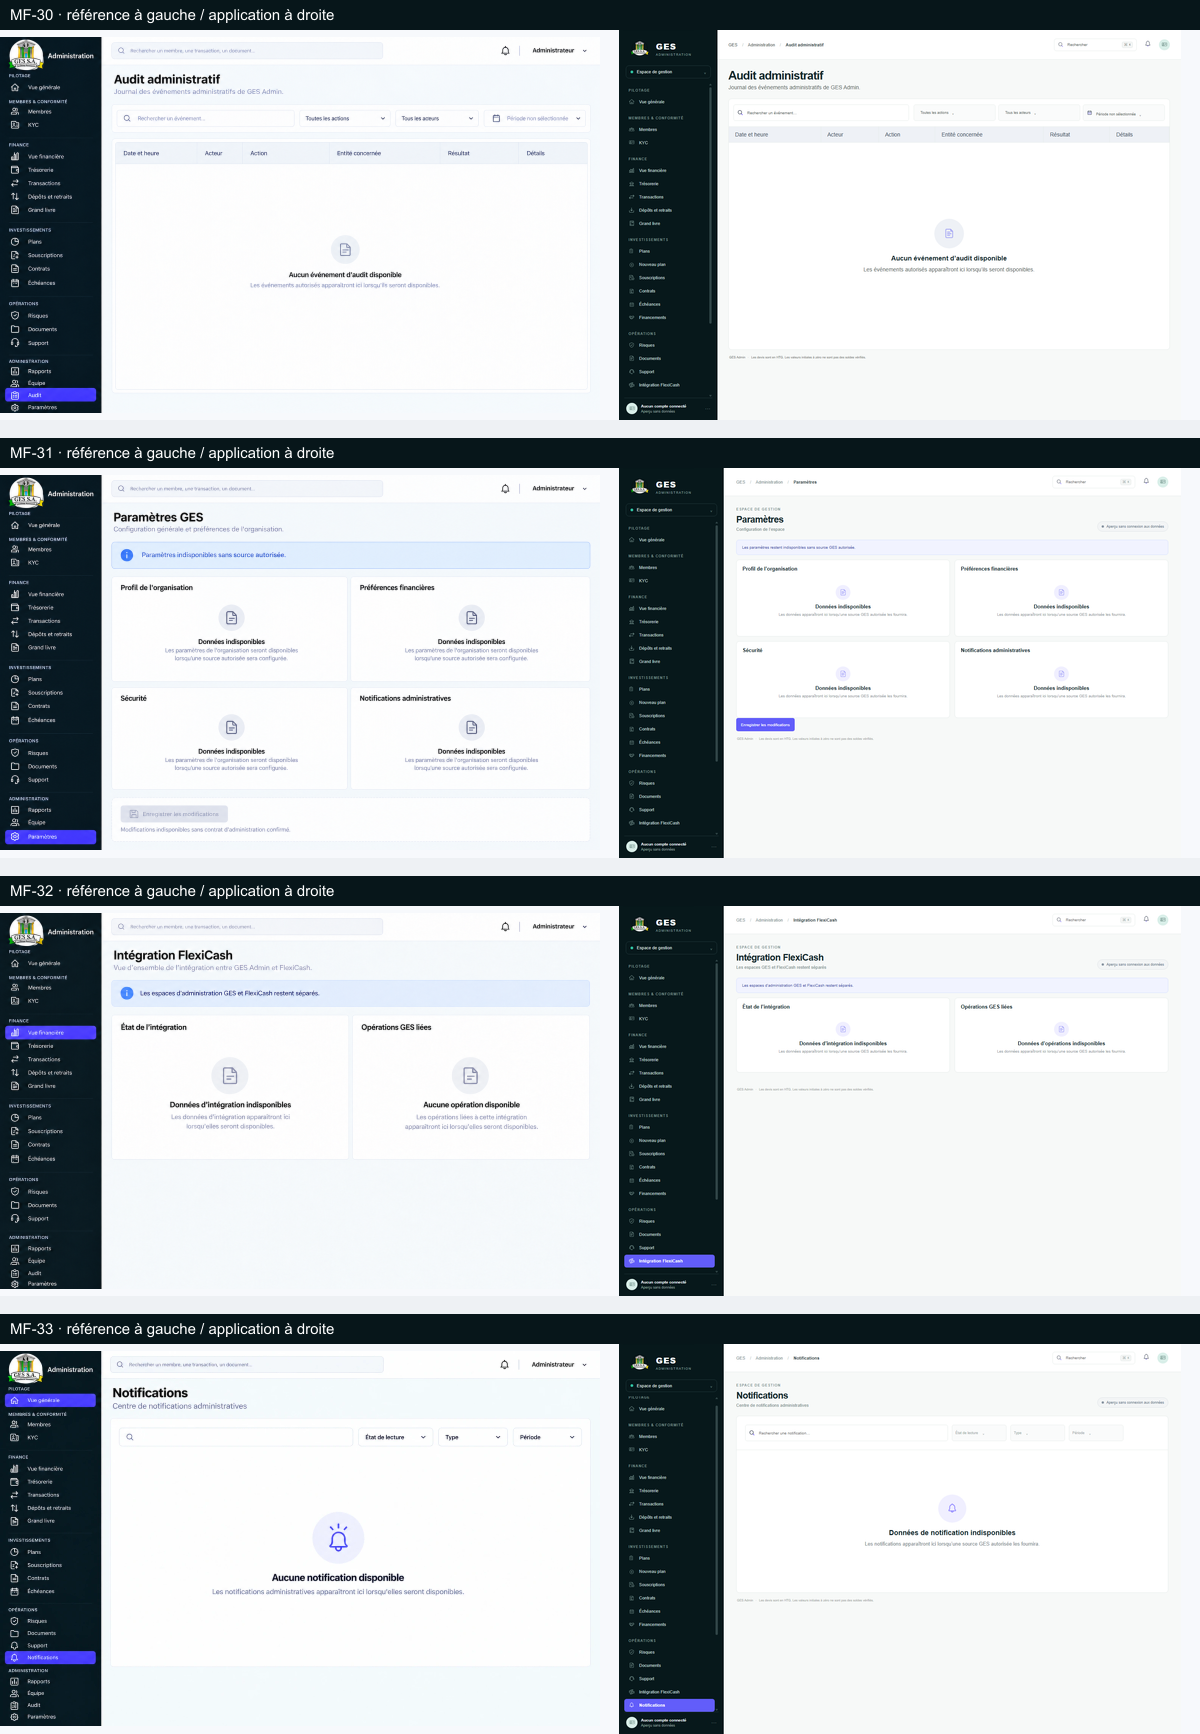
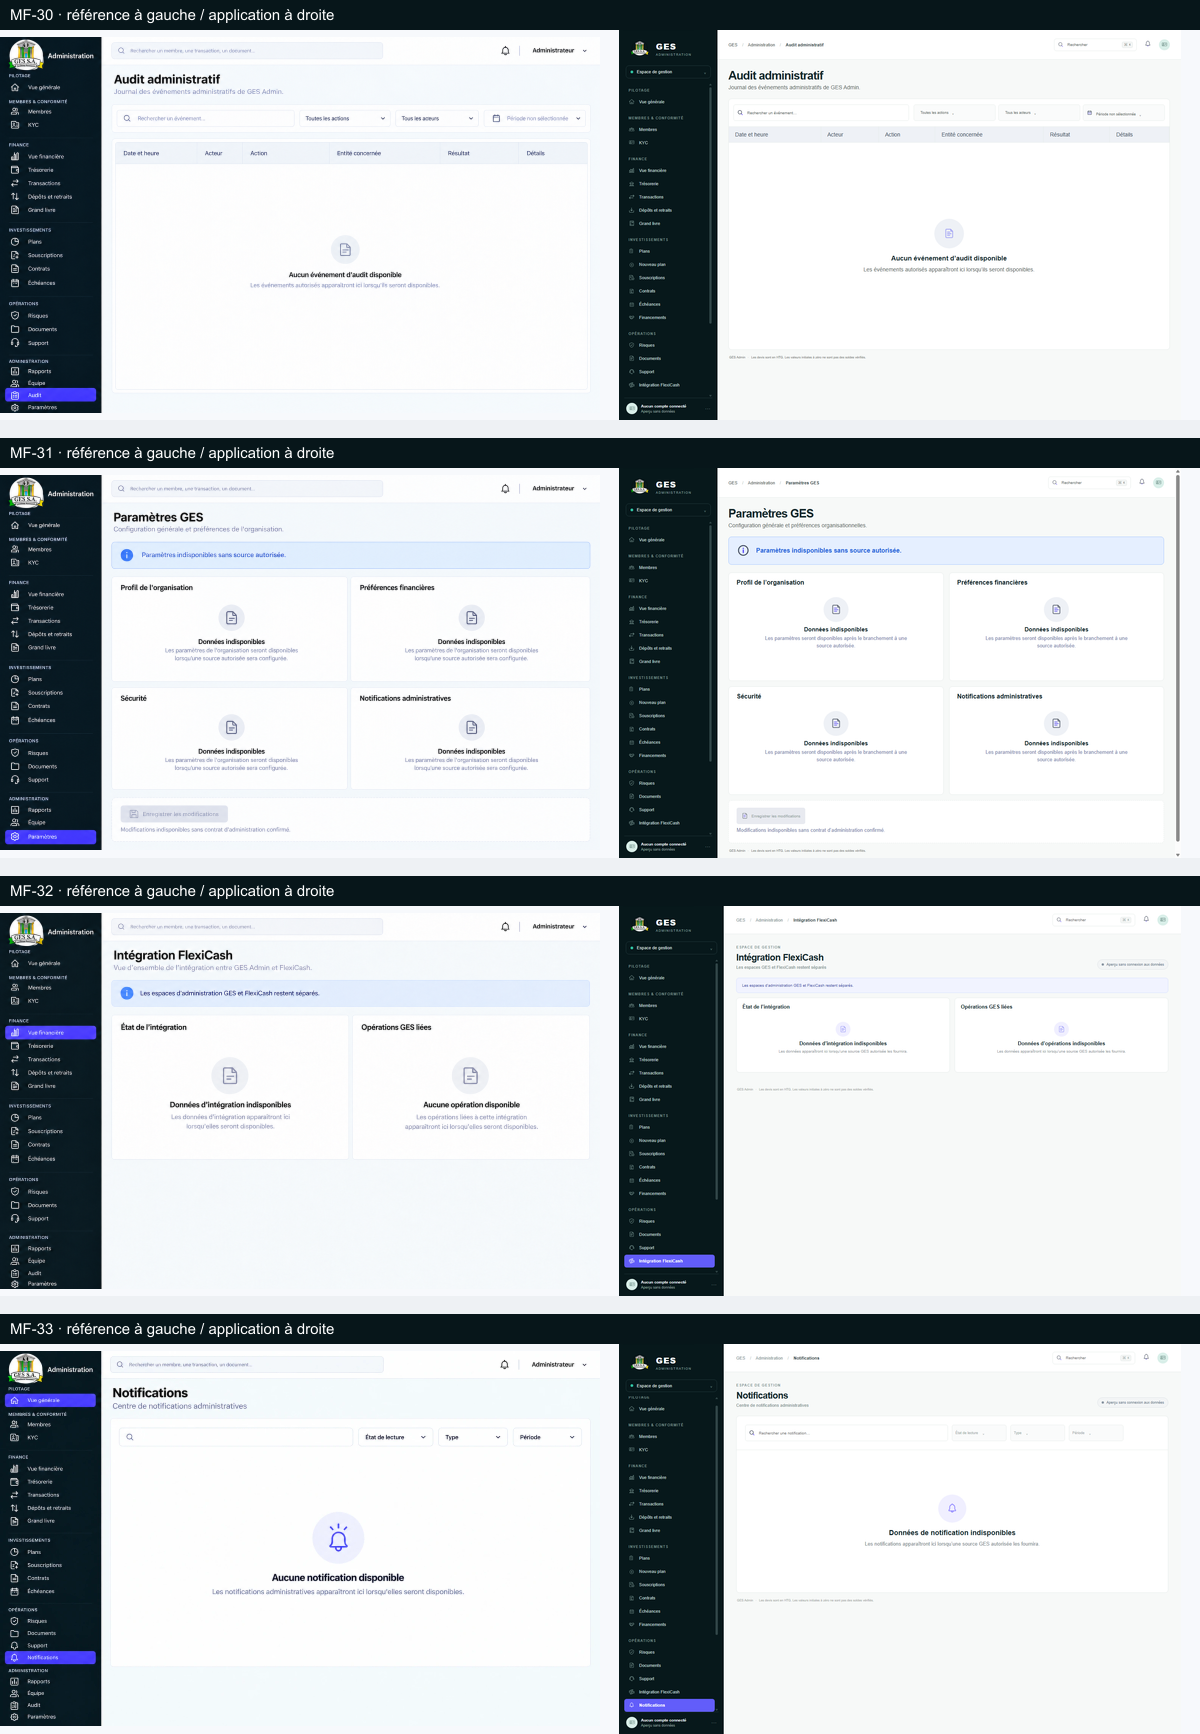
Align settings workspace with MF-31

Changed region(s): [[0.5858, 0.2803, 0.7708, 0.4983], [0.8017, 0.3114, 0.925, 0.436], [0.9558, 0.2803, 0.9867, 0.4671]]

diff --git a/components/admin-shell.tsx b/components/admin-shell.tsx
@@ -26,7 +26,7 @@ const pages: Record<string, { title: string; subtitle: string }> = {
   "vue-financiere": { title: "Vue financière générale", subtitle: "Aperçu de la position financière de GES Admin en HTG et USD." }, tresorerie: { title: "Trésorerie", subtitle: "Positions de trésorerie" }, transactions: { title: "Transactions", subtitle: "Consultez et gérez l’ensemble des transactions." },
   "depots-retraits": { title: "Dépôts et retraits", subtitle: "Suivi des mouvements entrants et sortants" }, "grand-livre": { title: "Grand livre et rapprochement", subtitle: "Consultation du grand livre comptable et rapprochement des soldes." }, plans: { title: "Catalogue des plans d’investissement", subtitle: "Vue d’ensemble des plans d’investissement autorisés sur GES Admin." },
   souscriptions: { title: "Souscriptions", subtitle: "Vue d’ensemble des souscriptions effectuées sur GES Admin." }, contrats: { title: "Contrats d’investissement", subtitle: "Liste des contrats d’investissement enregistrés dans GES Admin." }, echeances: { title: "Échéances et distributions", subtitle: "Suivi des échéances et des distributions de capital et d’intérêts." }, financements: { title: "Financements GES", subtitle: "Gestion des dossiers de financement du GES Admin." }, "plans/nouveau": { title: "Nouveau plan d’investissement", subtitle: "Créer un nouveau plan d’investissement (brouillon)." },
-  risques: { title: "Risques et alertes", subtitle: "Surveillance des risques et des alertes de GES Admin." }, documents: { title: "Documents et notifications", subtitle: "Consultez les documents et les notifications de GES Admin." }, support: { title: "Assistance et tickets", subtitle: "Liste des demandes d’assistance et de support de GES Admin." }, rapports: { title: "Rapports et analyses", subtitle: "Analysez l’activité de GES Admin grâce à des rapports et des visualisations." }, equipe: { title: "Équipe et administrateurs", subtitle: "Gestion des administrateurs et de leurs permissions dans GES Admin." }, audit: { title: "Audit administratif", subtitle: "Journal des événements administratifs de GES Admin." }, parametres: { title: "Paramètres", subtitle: "Configuration de l’espace" }, notifications: { title: "Notifications", subtitle: "Centre de notifications administratives" }, "roles-permissions": { title: "Rôles et permissions", subtitle: "Gestion des rôles et des permissions dans GES Admin." }, "integrations-flexicash": { title: "Intégration FlexiCash", subtitle: "Les espaces GES et FlexiCash restent séparés" },
+  risques: { title: "Risques et alertes", subtitle: "Surveillance des risques et des alertes de GES Admin." }, documents: { title: "Documents et notifications", subtitle: "Consultez les documents et les notifications de GES Admin." }, support: { title: "Assistance et tickets", subtitle: "Liste des demandes d’assistance et de support de GES Admin." }, rapports: { title: "Rapports et analyses", subtitle: "Analysez l’activité de GES Admin grâce à des rapports et des visualisations." }, equipe: { title: "Équipe et administrateurs", subtitle: "Gestion des administrateurs et de leurs permissions dans GES Admin." }, audit: { title: "Audit administratif", subtitle: "Journal des événements administratifs de GES Admin." }, parametres: { title: "Paramètres GES", subtitle: "Configuration générale et préférences organisationnelles." }, notifications: { title: "Notifications", subtitle: "Centre de notifications administratives" }, "roles-permissions": { title: "Rôles et permissions", subtitle: "Gestion des rôles et des permissions dans GES Admin." }, "integrations-flexicash": { title: "Intégration FlexiCash", subtitle: "Les espaces GES et FlexiCash restent séparés" },
 };
 
 const detailPages: Record<string, { title: string; subtitle: string }> = {
@@ -148,7 +148,7 @@ export function AdminShell({ section }: { section: string }) {
     </aside>
     {menuOpen && <button className="drawer-backdrop visible" type="button" aria-label="Fermer le menu" tabIndex={-1} onClick={closeMenu}/>}
     <main className="main-area" id="main-content" tabIndex={-1} inert={menuOpen}><header className="topbar"><button ref={menuButtonRef} className="mobile-menu-toggle" onClick={() => menuOpen ? closeMenu() : setMenuOpen(true)} aria-label={menuOpen ? "Fermer le menu" : "Ouvrir le menu"} aria-expanded={menuOpen} aria-controls="primary-navigation">{menuOpen ? <Image src="/assets/icons/close.webp" alt="" width={19} height={19}/> : <span className="menu-bars" aria-hidden="true"/>}</button><div className="breadcrumb">GES <span>/</span> Administration <span>/</span> <b>{page.title}</b></div><div className="top-actions"><label className="search"><Image src="/assets/icons/search.webp" alt="" width={15} height={15}/><input placeholder="Rechercher" aria-label="Rechercher" value={searchQuery} onChange={(event) => setSearchQuery(event.target.value)}/><kbd>⌘ K</kbd></label><Link href="/admin/notifications" className="bell" aria-label="Notifications"><Image src="/assets/icons/notification.webp" alt="" width={19} height={19}/></Link><div className="top-avatar"><Image src="/assets/icons/identity.webp" alt="" width={16} height={16}/></div></div></header>
-      <div className={`content ${key === "plans/nouveau" ? "plan-content" : ""}`}>{key === "souscriptions/dossier" && <Link className="detail-back" href="/admin/souscriptions">← Retour aux souscriptions</Link>}{key === "contrats/dossier" && <Link className="detail-back" href="/admin/contrats">← Retour aux contrats</Link>}{key === "risques/incident" && <Link className="detail-back" href="/admin/risques">← Retour aux alertes</Link>}{key === "support/conversation" && <Link className="detail-back" href="/admin/support">← Retour aux tickets</Link>}<div className="page-heading"><div>{key !== "transactions" && key !== "souscriptions/dossier" && key !== "contrats/dossier" && key !== "risques/incident" && key !== "support/conversation" && key !== "documents" && key !== "rapports" && key !== "equipe" && key !== "roles-permissions" && key !== "audit" && <div className="eyebrow">ESPACE DE GESTION</div>}<h1>{page.title}</h1>{page.subtitle && <p>{page.subtitle}</p>}</div><div className="heading-actions">{key === "rapports" && <div className="reports-page-filters"><button className="filter-button" disabled>Tous les rapports <span>⌄</span></button><button className="filter-button" disabled><Image src="/assets/icons/calendar.webp" alt="" width={16} height={16}/> Période non sélectionnée <span>⌄</span></button></div>}{key !== "souscriptions/dossier" && key !== "contrats/dossier" && key !== "risques/incident" && key !== "support/conversation" && key !== "documents" && key !== "rapports" && key !== "equipe" && key !== "roles-permissions" && key !== "audit" && <span className="status-pill preview-pill"><i/> Aperçu sans connexion aux données</span>}</div></div>
+      <div className={`content ${key === "plans/nouveau" ? "plan-content" : ""}`}>{key === "souscriptions/dossier" && <Link className="detail-back" href="/admin/souscriptions">← Retour aux souscriptions</Link>}{key === "contrats/dossier" && <Link className="detail-back" href="/admin/contrats">← Retour aux contrats</Link>}{key === "risques/incident" && <Link className="detail-back" href="/admin/risques">← Retour aux alertes</Link>}{key === "support/conversation" && <Link className="detail-back" href="/admin/support">← Retour aux tickets</Link>}<div className="page-heading"><div>{key !== "transactions" && key !== "souscriptions/dossier" && key !== "contrats/dossier" && key !== "risques/incident" && key !== "support/conversation" && key !== "documents" && key !== "rapports" && key !== "equipe" && key !== "roles-permissions" && key !== "audit" && key !== "parametres" && <div className="eyebrow">ESPACE DE GESTION</div>}<h1>{page.title}</h1>{page.subtitle && <p>{page.subtitle}</p>}</div><div className="heading-actions">{key === "rapports" && <div className="reports-page-filters"><button className="filter-button" disabled>Tous les rapports <span>⌄</span></button><button className="filter-button" disabled><Image src="/assets/icons/calendar.webp" alt="" width={16} height={16}/> Période non sélectionnée <span>⌄</span></button></div>}{key !== "souscriptions/dossier" && key !== "contrats/dossier" && key !== "risques/incident" && key !== "support/conversation" && key !== "documents" && key !== "rapports" && key !== "equipe" && key !== "roles-permissions" && key !== "audit" && key !== "parametres" && <span className="status-pill preview-pill"><i/> Aperçu sans connexion aux données</span>}</div></div>
       {key === "notifications" ? <NotificationsWorkspace query={searchQuery} onQueryChange={setSearchQuery}/> : key === "plans/nouveau" ? <><Link href="/admin/plans" className="plan-back">← Retour aux plans</Link><PlanForm/></> : overview ? <>{financial && <div className="module-notice">Valeurs initiales — les montants affichés sont à confirmer et ne constituent pas des soldes vérifiés.</div>}<div className={`metric-grid ${financial ? "financial-metrics" : ""}`}>{metrics.map(([label,value,caption])=><MetricCard key={label} label={label} value={value} caption={caption}/>)}</div>
       {financial && <UsdUnavailable/>}
       <div className={`overview-grid ${financial ? "financial-overview-grid" : "command-overview-grid"}`}><section className="panel"><div className="panel-head"><div><h2>{financial ? "Tendance de trésorerie" : "Tendance financière"}</h2></div>{financial && <button className="select-button" disabled title="Les données sont indisponibles">Période⌄</button>}</div><div className="chart-empty"><div className="chart-lines"><span/><span/><span/><span/></div><div className="chart-message">Aucune donnée disponible</div></div></section><section className="panel breakdown"><div className="panel-head"><div><h2>{financial ? "Obligations à venir" : "Répartition des investissements"}</h2></div>{financial && <button className="dots" disabled aria-label="Options indisponibles">···</button>}</div>{financial ? <div className="donut-wrap"><p>Aucune donnée disponible</p></div> : <div className="donut-wrap"><div className="donut"><div/></div><p>Aucune donnée disponible</p></div>}</section></div>

diff --git a/components/module-workspace.tsx b/components/module-workspace.tsx
@@ -81,11 +81,10 @@ if (sectionKey === "rapports") return <>
     <section className="panel module-subpanel reports-analysis-panel"><h2>Vue analytique</h2><div className="reports-empty-state"><div className="reports-empty-icon"><Image src="/assets/icons/analytics.webp" alt="" width={30} height={30}/></div><strong>Aucune donnée de rapport disponible</strong><p>Les analyses apparaîtront ici lorsqu’une source autorisée sera disponible.</p></div></section>
     <section className="panel module-subpanel reports-list-panel"><h2>Rapports disponibles</h2><div className="reports-empty-state"><div className="reports-empty-icon"><Image src="/assets/icons/document.webp" alt="" width={30} height={30}/></div><strong>Aucun rapport disponible</strong><p>Les rapports apparaîtront ici lorsqu’une source autorisée sera disponible.</p></div></section>
   </>;
-  if (sectionKey === "parametres") return <><div className="module-notice">Les paramètres restent indisponibles sans source GES autorisée.</div><div className="module-settings-grid">{["Profil de l’organisation", "Préférences financières", "Sécurité", "Notifications administratives"].map((title) => <section className="panel module-subpanel" key={title}><h2>{title}</h2><EmptyState title="Données indisponibles" searching={false}/></section>)}</div><button className="primary-button" disabled>Enregistrer les modifications</button></>;
-  if (sectionKey === "roles-permissions") return <>
-    <div className="role-permission-tabs" role="tablist" aria-label="Gestion des rôles et permissions"><button type="button" role="tab" aria-selected={activeTab === 0} className={activeTab === 0 ? "selected" : ""} onClick={() => { setActiveTab(0); document.getElementById("role-catalog")?.scrollIntoView({ behavior: "smooth", block: "start" }); }}>Rôles</button><button type="button" role="tab" aria-selected={activeTab === 1} className={activeTab === 1 ? "selected" : ""} onClick={() => { setActiveTab(1); document.getElementById("permission-matrix")?.scrollIntoView({ behavior: "smooth", block: "start" }); }}>Permissions</button></div>
-    <section id="role-catalog" className="panel module-subpanel role-list-panel"><h2>Rôles</h2><div className="table-wrap"><table><thead><tr>{["Rôle", "Description", "Administrateurs", "Statut"].map((label) => <th key={label}>{label}</th>)}</tr></thead><tbody><tr><td colSpan={4}><div className="role-permission-empty"><div className="role-permission-empty-icon"><Image src="/assets/icons/document.webp" alt="" width={30} height={30}/></div><strong>Aucun rôle disponible</strong><p>Les rôles apparaîtront ici lorsqu’ils seront disponibles.</p></div></td></tr></tbody></table></div></section>
-    <section id="permission-matrix" className="panel module-subpanel permission-matrix-panel"><h2>Matrice des permissions</h2><div className="role-permission-empty"><div className="permission-grid-icon" aria-hidden="true"><i/><i/><i/><i/></div><strong>Aucune permission disponible</strong><p>Les permissions apparaîtront ici lorsqu’elles seront disponibles.</p></div><div className="module-notice subtle"><Image src="/assets/icons/info.webp" alt="" width={18} height={18}/>Les permissions effectives sont vérifiées par le serveur.</div></section>
+  if (sectionKey === "parametres") return <>
+    <div className="settings-unavailable-notice"><Image src="/assets/icons/info.webp" alt="" width={28} height={28}/><strong>Paramètres indisponibles sans source autorisée.</strong></div>
+    <div className="module-settings-grid settings-card-grid">{["Profil de l’organisation", "Préférences financières", "Sécurité", "Notifications administratives"].map((title) => <section className="panel module-subpanel settings-card" key={title}><h2>{title}</h2><div className="settings-empty"><div className="settings-empty-icon"><Image src="/assets/icons/document.webp" alt="" width={28} height={28}/></div><strong>Données indisponibles</strong><p>Les paramètres seront disponibles après le branchement à une source autorisée.</p></div></section>)}</div>
+    <section className="panel settings-save-panel"><button className="primary-button" disabled><Image src="/assets/icons/document.webp" alt="" width={18} height={18}/>Enregistrer les modifications</button><p>Modifications indisponibles sans contrat d’administration confirmé.</p></section>
   </>;
   if (sectionKey === "integrations-flexicash") return <><div className="module-notice">Les espaces d’administration GES et FlexiCash restent séparés.</div><div className="module-two-panels"><section className="panel module-subpanel"><h2>État de l’intégration</h2><EmptyState title="Données d’intégration indisponibles" searching={false}/></section><section className="panel module-subpanel"><h2>Opérations GES liées</h2><EmptyState title="Données d’opérations indisponibles" searching={false}/></section></div></>;
   if (!page) return <GenericTable sectionKey={sectionKey} page={{ description: "Données GES disponibles.", filters: ["Filtres", "Période"], columns: ["RÉFÉRENCE", "DESCRIPTION", "DATE", "STATUT", "MONTANT (HTG)"], empty: "Aucune donnée disponible" }} query={query} onQueryChange={onQueryChange} activeTab={activeTab} setActiveTab={setActiveTab}/>;

diff --git a/app/globals.css b/app/globals.css
@@ -83,3 +83,5 @@ a:focus-visible,button:focus-visible,input:focus-visible,select:focus-visible,te
 @media(max-width:700px){.role-list-panel .role-permission-empty{width:calc(100vw - 56px);flex:0 0 auto}.role-list-panel .role-permission-empty p{max-width:100%}}
 .audit-list-panel .module-toolbar{padding:14px 12px;gap:12px}.audit-list-panel .module-toolbar .filter-search{max-width:none;flex:1;min-width:180px}.audit-list-panel .module-filter-row{flex:1;justify-content:stretch;flex-wrap:nowrap}.audit-list-panel .module-filter-row .filter-button{flex:1;min-width:130px}.audit-list-panel th{background:#eef1f6;border-right:1px solid var(--line);text-transform:none;letter-spacing:0;font-size:14px;font-weight:500;color:#43505e}.audit-list-panel .module-empty{min-height:530px}.audit-list-panel .module-empty-icon{height:76px;width:76px;background:#eef1f6}.audit-list-panel .module-empty h2{font-size:17px}.audit-list-panel .module-empty p{font-size:14px}@media(max-width:760px){.audit-list-panel .module-toolbar{align-items:stretch;flex-wrap:wrap}.audit-list-panel .module-toolbar .filter-search{flex:1 1 100%}.audit-list-panel .module-filter-row{justify-content:flex-start;flex-wrap:wrap}.audit-list-panel .module-filter-row .filter-button{flex:1 1 130px;min-width:0}.audit-list-panel .module-empty{min-height:330px}.audit-list-panel th{font-size:10px;white-space:nowrap}}
 .audit-list-panel .module-toolbar .filter-search{flex:2;min-width:0}.audit-list-panel .module-filter-row{flex:3}.audit-list-panel .module-filter-row .filter-button{min-width:0}
+.settings-unavailable-notice{min-height:72px;box-sizing:border-box;display:flex;align-items:center;gap:16px;padding:14px 20px;margin:0 0 20px;border:1px solid #a9c8ff;border-radius:8px;background:#e5efff;color:#2866db;font-size:16px}.settings-unavailable-notice img{width:34px;height:34px}.settings-card-grid{gap:12px;margin-bottom:14px}.settings-card{min-height:250px;padding:16px 20px}.settings-card>h2{margin:0;font:700 16px Arial,Helvetica,sans-serif}.settings-empty{min-height:190px;display:flex;align-items:center;justify-content:center;flex-direction:column;text-align:center;padding:10px}.settings-empty-icon{width:64px;height:64px;border-radius:50%;background:#eef1f6;display:grid;place-items:center;margin-bottom:10px}.settings-empty-icon img{width:30px;height:30px;opacity:.72}.settings-empty strong{font-size:15px}.settings-empty p{max-width:380px;margin:5px 0 0;color:#7c88ac;font-size:13px;line-height:1.5}.settings-save-panel{min-height:110px;padding:18px 20px;border-style:dashed}.settings-save-panel .primary-button{min-height:42px;display:inline-flex;align-items:center;gap:8px}.settings-save-panel .primary-button:disabled{background:#e8eaf0;color:#929fa1;border-color:#dfe3ed}.settings-save-panel .primary-button img{opacity:.55}.settings-save-panel p{margin:8px 0 0;color:#7c88ac;font-size:13px}@media(max-width:760px){.settings-unavailable-notice{min-height:62px;padding:12px;font-size:12px;gap:10px}.settings-unavailable-notice img{width:26px;height:26px}.settings-card{min-height:220px;padding:13px}.settings-card>h2{font-size:14px}.settings-empty{min-height:170px}.settings-empty p{font-size:11px}.settings-save-panel{padding:14px}.settings-save-panel p{font-size:11px}}
+.settings-card{min-height:278px}.settings-card-grid{gap:14px}

diff --git a/design/qa/README.md b/design/qa/README.md
@@ -171,3 +171,4 @@ Captures MF-27 : admin-rapports-1440x1000.png et admin-rapports-390x844.png. Rap
 Captures MF-28 : admin-equipe-1440x1000.png et admin-equipe-390x844.png. Colonnes conformes au Master Frame; aucun administrateur, role, permission ou acces fictif. Recherche disponible, filtres inactifs sans source GES; tableau vide et defilable sur mobile.
 Captures MF-29 : admin-roles-permissions-1440x1000.png et admin-roles-permissions-390x844.png. Onglets navigables vers le catalogue et la matrice; aucun role ou droit n'est preconfigure. Les decisions effectives restent sous controle serveur.
 Captures MF-30 : admin-audit-1440x1000.png et admin-audit-390x844.png. Recherche et filtres sont visibles, sans date preselectionnee. Le journal reste vide sans evenement autorise; aucun acteur, horodatage ou resultat n'est invente.
+Captures MF-31 : admin-parametres-1440x1000.png et admin-parametres-390x844.png. Les quatre groupes restent indisponibles sans source autorisee; Enregistrer est desactive sans contrat confirme. Aucun taux, devise ou reglage fictif.
